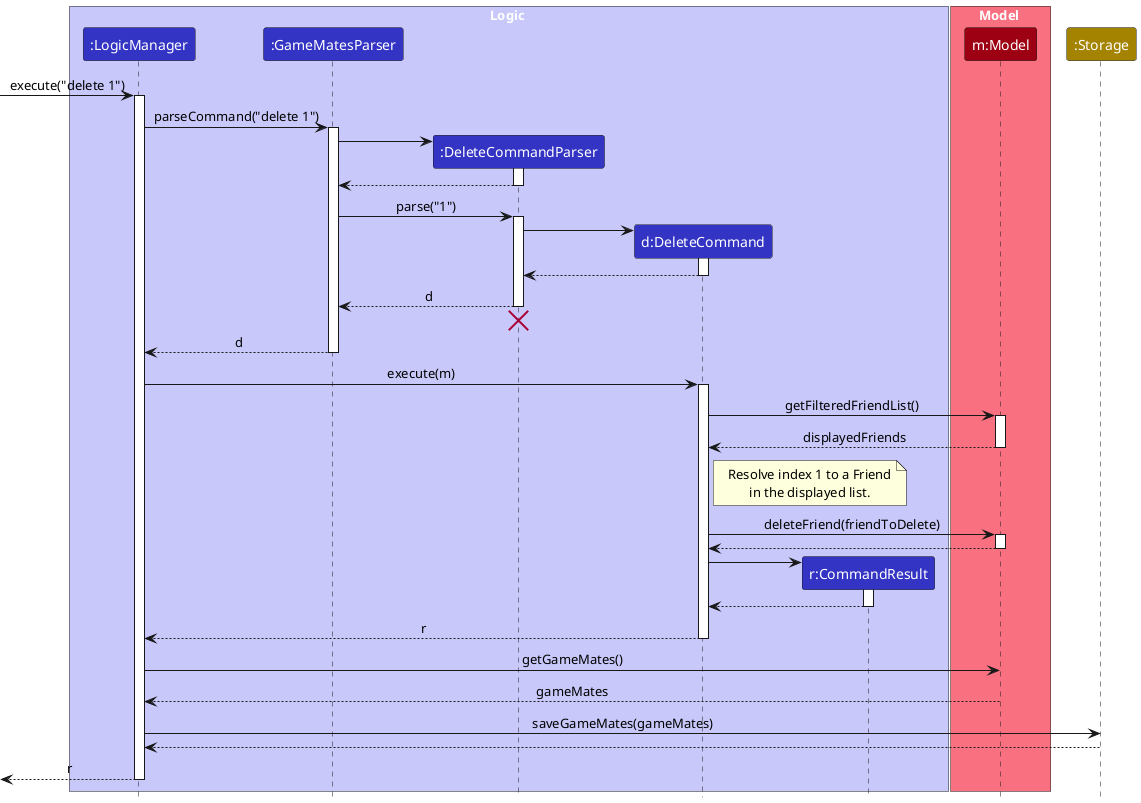
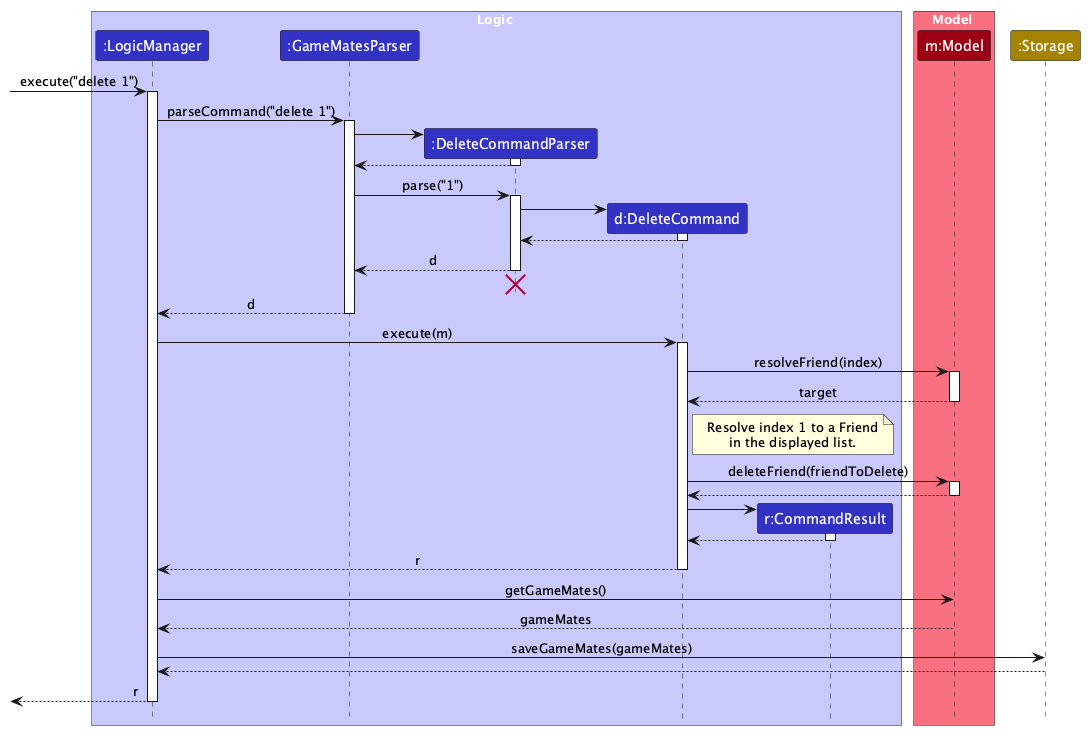
Improve error message where index is out of range

diff --git a/src/test/java/seedu/address/logic/commands/ArchiveCommandsTest.java b/src/test/java/seedu/address/logic/commands/ArchiveCommandsTest.java
@@ -161,8 +161,9 @@ public class ArchiveCommandsTest {
         for (String search : List.of("find Alice Bob", "find Nobody")) {
             execute(search);
             List<Friend> displayed = List.copyOf(model.getFilteredFriendList());
-            assertThrows(CommandException.class, Messages.MESSAGE_INVALID_FRIEND_DISPLAYED_INDEX, ()
-                    -> execute("archive 99"));
+            String expected = displayed.isEmpty() ? EditCommand.MESSAGE_EMPTY_LIST
+                    : String.format(EditCommand.MESSAGE_INDEX_NOT_FOUND, 99, displayed.size());
+            assertThrows(CommandException.class, expected, () -> execute("archive 99"));
             assertEquals(displayed, model.getFilteredFriendList());
             assertEquals(FriendListScope.SEARCH, model.getFriendListScope());
             assertEquals(List.of(alice, bob.withArchived(true)), model.getGameMates().getFriendList());
@@ -253,8 +254,9 @@ public class ArchiveCommandsTest {
     @Test
     public void archiveCommands_invalidTargets_leaveDataAndViewUnchanged() throws Exception {
         model.addFriend(alice);
-        assertThrows(CommandException.class, UnarchiveCommand.MESSAGE_WRONG_STATUS, () -> execute("unarchive 1"));
-        assertThrows(CommandException.class, Messages.MESSAGE_INVALID_FRIEND_DISPLAYED_INDEX, ()
+        assertThrows(CommandException.class, UnarchiveCommand.MESSAGE_WRONG_VIEW, () -> execute("unarchive 1"));
+        assertThrows(CommandException.class, UnarchiveCommand.MESSAGE_WRONG_VIEW, () -> execute("unarchive 99"));
+        assertThrows(CommandException.class, String.format(EditCommand.MESSAGE_INDEX_NOT_FOUND, 2, 1), ()
                 -> execute("archive 2"));
         assertThrows(CommandException.class, ArchiveCommand.MESSAGE_MYSELF, ()
                 -> new ArchiveCommand(Index.myself()).execute(model));
@@ -264,11 +266,13 @@ public class ArchiveCommandsTest {
         execute("archive 1");
         execute("archivelist");
         assertThrows(CommandException.class, ArchiveCommand.MESSAGE_WRONG_VIEW, () -> execute("archive 1"));
+        assertThrows(CommandException.class, String.format(EditCommand.MESSAGE_INDEX_NOT_FOUND, 2, 1), ()
+                -> execute("unarchive 2"));
         assertEquals(List.of(alice.withArchived(true)), model.getFilteredFriendList());
         execute("archivelist g/Unknown");
         assertTrue(model.getFilteredFriendList().isEmpty());
         assertEquals(FriendListScope.ARCHIVED, model.getFriendListScope());
-        assertThrows(CommandException.class, Messages.MESSAGE_INVALID_FRIEND_DISPLAYED_INDEX, ()
+        assertThrows(CommandException.class, EditCommand.MESSAGE_EMPTY_LIST, ()
                 -> execute("unarchive 1"));
     }
 

diff --git a/src/test/java/seedu/address/logic/commands/DeleteCommandTest.java b/src/test/java/seedu/address/logic/commands/DeleteCommandTest.java
@@ -14,7 +14,6 @@ import static seedu.address.testutil.TypicalIndexes.INDEX_SECOND_FRIEND;
 import org.junit.jupiter.api.Test;
 
 import seedu.address.commons.core.index.Index;
-import seedu.address.logic.Messages;
 import seedu.address.model.GameMates;
 import seedu.address.model.Model;
 import seedu.address.model.ModelManager;
@@ -48,7 +47,8 @@ public class DeleteCommandTest {
         Index outOfBoundIndex = Index.fromOneBased(model.getFilteredFriendList().size() + 1);
         DeleteCommand deleteCommand = new DeleteCommand(outOfBoundIndex);
 
-        assertCommandFailure(deleteCommand, model, Messages.MESSAGE_INVALID_FRIEND_DISPLAYED_INDEX);
+        assertCommandFailure(deleteCommand, model, String.format(EditCommand.MESSAGE_INDEX_NOT_FOUND,
+                outOfBoundIndex.getOneBased(), model.getFilteredFriendList().size()));
     }
 
     @Test
@@ -89,7 +89,8 @@ public class DeleteCommandTest {
 
         DeleteCommand deleteCommand = new DeleteCommand(outOfBoundIndex);
 
-        assertCommandFailure(deleteCommand, model, Messages.MESSAGE_INVALID_FRIEND_DISPLAYED_INDEX);
+        assertCommandFailure(deleteCommand, model, String.format(EditCommand.MESSAGE_INDEX_NOT_FOUND,
+                outOfBoundIndex.getOneBased(), 1));
     }
 
     @Test
@@ -101,14 +102,14 @@ public class DeleteCommandTest {
     public void execute_emptyList_throwsCommandException() {
         Model emptyModel = new ModelManager(new GameMates(), new UserPrefs());
         assertCommandFailure(new DeleteCommand(INDEX_FIRST_FRIEND), emptyModel,
-                Messages.MESSAGE_INVALID_FRIEND_DISPLAYED_INDEX);
+                EditCommand.MESSAGE_EMPTY_LIST);
     }
 
     @Test
     public void execute_emptyFilteredList_doesNotDeleteHiddenFriends() {
         showNoFriend(model);
         assertCommandFailure(new DeleteCommand(INDEX_FIRST_FRIEND), model,
-                Messages.MESSAGE_INVALID_FRIEND_DISPLAYED_INDEX);
+                EditCommand.MESSAGE_EMPTY_LIST);
     }
 
     @Test

diff --git a/src/main/java/seedu/address/logic/commands/UnarchiveCommand.java b/src/main/java/seedu/address/logic/commands/UnarchiveCommand.java
@@ -4,8 +4,8 @@ import static java.util.Objects.requireNonNull;
 
 import seedu.address.commons.core.index.Index;
 import seedu.address.commons.util.ToStringBuilder;
-import seedu.address.logic.Messages;
 import seedu.address.logic.commands.exceptions.CommandException;
+import seedu.address.model.FriendListScope;
 import seedu.address.model.Model;
 import seedu.address.model.friend.Friend;
 
@@ -16,6 +16,8 @@ public class UnarchiveCommand extends Command {
             + ": Selects an archived friend by its displayed index.\n"
             + "Parameters: FRIEND_INDEX (must be a positive integer)\n"
             + "Example: " + COMMAND_WORD + " 1";
+    public static final String MESSAGE_WRONG_VIEW =
+            "Run archivelist to switch to the archived list before restoring a friend.";
     public static final String MESSAGE_SUCCESS = "Restored %1$s.";
     public static final String MESSAGE_WRONG_STATUS = "This friend is not archived. "
             + "Use archivelist to select an archived friend.";
@@ -33,10 +35,10 @@ public class UnarchiveCommand extends Command {
         if (targetIndex.isMyself()) {
             throw new CommandException(MESSAGE_MYSELF);
         }
-        if (targetIndex.getZeroBased() >= model.getFilteredFriendList().size()) {
-            throw new CommandException(Messages.MESSAGE_INVALID_FRIEND_DISPLAYED_INDEX);
+        if (model.getFriendListScope() == FriendListScope.ACTIVE) {
+            throw new CommandException(MESSAGE_WRONG_VIEW);
         }
-        Friend friend = model.getFilteredFriendList().get(targetIndex.getZeroBased());
+        Friend friend = FriendTargetResolver.resolve(model, targetIndex).friend();
         if (friend.isArchived() == false) {
             throw new CommandException(MESSAGE_WRONG_STATUS);
         }

diff --git a/src/test/java/seedu/address/logic/commands/GameAddCommandTest.java b/src/test/java/seedu/address/logic/commands/GameAddCommandTest.java
@@ -11,7 +11,6 @@ import static seedu.address.testutil.TypicalFriends.getTypicalGameMates;
 import org.junit.jupiter.api.Test;
 
 import seedu.address.commons.core.index.Index;
-import seedu.address.logic.Messages;
 import seedu.address.model.GameMates;
 import seedu.address.model.Model;
 import seedu.address.model.ModelManager;
@@ -81,12 +80,12 @@ public class GameAddCommandTest {
     public void execute_invalidDisplayedIndex_failure() {
         int size = model.getFilteredFriendList().size();
         assertCommandFailure(new GameAddCommand(Index.fromOneBased(size + 1), game), model,
-                Messages.MESSAGE_INVALID_FRIEND_DISPLAYED_INDEX);
+                String.format(EditCommand.MESSAGE_INDEX_NOT_FOUND, size + 1, size));
         showFriendAtIndex(model, first);
         assertCommandFailure(new GameAddCommand(Index.fromOneBased(2), game), model,
-                Messages.MESSAGE_INVALID_FRIEND_DISPLAYED_INDEX);
+                String.format(EditCommand.MESSAGE_INDEX_NOT_FOUND, 2, 1));
         model.updateFilteredFriendList(friend -> false);
-        assertCommandFailure(new GameAddCommand(first, game), model, Messages.MESSAGE_INVALID_FRIEND_DISPLAYED_INDEX);
+        assertCommandFailure(new GameAddCommand(first, game), model, EditCommand.MESSAGE_EMPTY_LIST);
     }
 
     @Test

diff --git a/src/main/java/seedu/address/logic/commands/EditCommand.java b/src/main/java/seedu/address/logic/commands/EditCommand.java
@@ -54,7 +54,7 @@ public class EditCommand extends Command {
             + "to edit specific details.";
 
     public static final String MESSAGE_EMPTY_LIST =
-            "No friends are currently displayed. Use list to show all friends.";
+            "No friends are currently displayed. Use list or archivelist to show friends.";
     public static final String MESSAGE_INDEX_NOT_FOUND =
             "No friend exists at index %1$d. Choose an index from 1 to %2$d.";
 
@@ -76,11 +76,7 @@ public class EditCommand extends Command {
     @Override
     public CommandResult execute(Model model) throws CommandException {
         requireNonNull(model);
-        FriendTarget target = FriendTargetResolver.resolve(model, index, () -> {
-            int displayedCount = model.getFilteredFriendList().size();
-            return displayedCount == 0 ? MESSAGE_EMPTY_LIST
-                    : String.format(MESSAGE_INDEX_NOT_FOUND, index.getOneBased(), displayedCount);
-        });
+        FriendTarget target = FriendTargetResolver.resolve(model, index);
         Friend friendToEdit = target.friend();
         Friend editedFriend = createEditedFriend(friendToEdit, editFriendDescriptor);
         FriendValidator.checkCanEdit(model, target, editedFriend);

diff --git a/src/main/java/seedu/address/logic/commands/FriendTargetResolver.java b/src/main/java/seedu/address/logic/commands/FriendTargetResolver.java
@@ -5,7 +5,6 @@ import static seedu.address.commons.util.CollectionUtil.requireAllNonNull;
 import java.util.function.Supplier;
 
 import seedu.address.commons.core.index.Index;
-import seedu.address.logic.Messages;
 import seedu.address.logic.commands.exceptions.CommandException;
 import seedu.address.model.Model;
 import seedu.address.model.friend.FriendTarget;
@@ -16,9 +15,13 @@ final class FriendTargetResolver {
     private FriendTargetResolver() {
     }
 
-    /** Resolves a target using the standard invalid-index message. */
+    /** Resolves a target, reporting the valid index range if the index is outside the displayed list. */
     static FriendTarget resolve(Model model, Index index) throws CommandException {
-        return resolve(model, index, () -> Messages.MESSAGE_INVALID_FRIEND_DISPLAYED_INDEX);
+        return resolve(model, index, () -> {
+            int displayedCount = model.getFilteredFriendList().size();
+            return displayedCount == 0 ? EditCommand.MESSAGE_EMPTY_LIST
+                    : String.format(EditCommand.MESSAGE_INDEX_NOT_FOUND, index.getOneBased(), displayedCount);
+        });
     }
 
     /** Resolves a target, generating command-specific feedback only if the index is invalid. */

diff --git a/src/main/java/seedu/address/logic/commands/DeleteCommand.java b/src/main/java/seedu/address/logic/commands/DeleteCommand.java
@@ -2,11 +2,8 @@ package seedu.address.logic.commands;
 
 import static java.util.Objects.requireNonNull;
 
-import java.util.List;
-
 import seedu.address.commons.core.index.Index;
 import seedu.address.commons.util.ToStringBuilder;
-import seedu.address.logic.Messages;
 import seedu.address.logic.commands.exceptions.CommandException;
 import seedu.address.model.Model;
 import seedu.address.model.friend.Friend;
@@ -38,13 +35,7 @@ public class DeleteCommand extends Command {
     @Override
     public CommandResult execute(Model model) throws CommandException {
         requireNonNull(model);
-        List<Friend> lastShownList = model.getFilteredFriendList();
-
-        if (targetIndex.getZeroBased() >= lastShownList.size()) {
-            throw new CommandException(Messages.MESSAGE_INVALID_FRIEND_DISPLAYED_INDEX);
-        }
-
-        Friend friendToDelete = lastShownList.get(targetIndex.getZeroBased());
+        Friend friendToDelete = FriendTargetResolver.resolve(model, targetIndex).friend();
         model.deleteFriend(friendToDelete);
         return new CommandResult(String.format(MESSAGE_DELETE_FRIEND_SUCCESS, friendToDelete.getName()));
     }

diff --git a/src/main/java/seedu/address/logic/commands/ArchiveCommand.java b/src/main/java/seedu/address/logic/commands/ArchiveCommand.java
@@ -4,7 +4,6 @@ import static java.util.Objects.requireNonNull;
 
 import seedu.address.commons.core.index.Index;
 import seedu.address.commons.util.ToStringBuilder;
-import seedu.address.logic.Messages;
 import seedu.address.logic.commands.exceptions.CommandException;
 import seedu.address.model.FriendListScope;
 import seedu.address.model.Model;
@@ -37,10 +36,7 @@ public class ArchiveCommand extends Command {
         if (model.getFriendListScope() == FriendListScope.ARCHIVED) {
             throw new CommandException(MESSAGE_WRONG_VIEW);
         }
-        if (targetIndex.getZeroBased() >= model.getFilteredFriendList().size()) {
-            throw new CommandException(Messages.MESSAGE_INVALID_FRIEND_DISPLAYED_INDEX);
-        }
-        Friend friend = model.getFilteredFriendList().get(targetIndex.getZeroBased());
+        Friend friend = FriendTargetResolver.resolve(model, targetIndex).friend();
         if (friend.isArchived()) {
             throw new CommandException(MESSAGE_WRONG_STATUS);
         }

diff --git a/src/test/java/seedu/address/logic/commands/GameDeleteCommandTest.java b/src/test/java/seedu/address/logic/commands/GameDeleteCommandTest.java
@@ -7,7 +7,6 @@ import static seedu.address.testutil.TypicalFriends.getTypicalGameMates;
 import org.junit.jupiter.api.Test;
 
 import seedu.address.commons.core.index.Index;
-import seedu.address.logic.Messages;
 import seedu.address.model.GameMates;
 import seedu.address.model.Model;
 import seedu.address.model.ModelManager;
@@ -55,7 +54,8 @@ public class GameDeleteCommandTest {
 
     @Test
     public void execute_invalidFriendIndex_failure() {
-        assertCommandFailure(new GameDeleteCommand(Index.fromOneBased(model.getFilteredFriendList().size() + 1),
-                new GameName("Minecraft")), model, Messages.MESSAGE_INVALID_FRIEND_DISPLAYED_INDEX);
+        int size = model.getFilteredFriendList().size();
+        assertCommandFailure(new GameDeleteCommand(Index.fromOneBased(size + 1),
+                new GameName("Minecraft")), model, String.format(EditCommand.MESSAGE_INDEX_NOT_FOUND, size + 1, size));
     }
 }

diff --git a/src/test/java/seedu/address/logic/commands/GameListCommandTest.java b/src/test/java/seedu/address/logic/commands/GameListCommandTest.java
@@ -153,10 +153,10 @@ public class GameListCommandTest {
     public void execute_emptyDisplayedList_failure() {
         Model emptyModel = new ModelManager();
         assertCommandFailure(new GameListCommand(INDEX_FIRST_FRIEND), emptyModel,
-                "No friends are currently displayed. Use list to show all friends.");
+                "No friends are currently displayed. Use list or archivelist to show friends.");
         new FindCommand(new NameContainsKeywordsPredicate(List.of("Unknown"))).execute(model);
         assertCommandFailure(new GameListCommand(INDEX_FIRST_FRIEND, new GameName("Valorant")), model,
-                "No friends are currently displayed. Use list to show all friends.");
+                "No friends are currently displayed. Use list or archivelist to show friends.");
     }
 
     @Test

diff --git a/src/test/java/seedu/address/logic/commands/GameEditCommandTest.java b/src/test/java/seedu/address/logic/commands/GameEditCommandTest.java
@@ -14,7 +14,6 @@ import java.util.stream.Collectors;
 import org.junit.jupiter.api.Test;
 
 import seedu.address.commons.core.index.Index;
-import seedu.address.logic.Messages;
 import seedu.address.logic.commands.GameEditCommand.EditGameDescriptor;
 import seedu.address.logic.commands.exceptions.CommandException;
 import seedu.address.logic.parser.GameMatesParser;
@@ -174,7 +173,7 @@ public class GameEditCommandTest {
             assertSame(friend, model.getFilteredFriendList().getFirst());
         }
         model.updateFilteredFriendList(f -> false);
-        assertThrows(CommandException.class, Messages.MESSAGE_INVALID_FRIEND_DISPLAYED_INDEX, () ->
+        assertThrows(CommandException.class, EditCommand.MESSAGE_EMPTY_LIST, () ->
                 execute("gameedit 1 g/Valorant u/player"));
     }
 

diff --git a/src/test/java/seedu/address/logic/LogicManagerTest.java b/src/test/java/seedu/address/logic/LogicManagerTest.java
@@ -21,6 +21,7 @@ import org.junit.jupiter.api.io.TempDir;
 import seedu.address.logic.commands.AddCommand;
 import seedu.address.logic.commands.CommandResult;
 import seedu.address.logic.commands.DeleteCommand;
+import seedu.address.logic.commands.EditCommand;
 import seedu.address.logic.commands.ListCommand;
 import seedu.address.logic.commands.exceptions.CommandException;
 import seedu.address.logic.parser.exceptions.ParseException;
@@ -66,7 +67,7 @@ public class LogicManagerTest {
     @Test
     public void execute_commandExecutionError_throwsCommandException() {
         String deleteCommand = "delete 9";
-        assertCommandException(deleteCommand, Messages.MESSAGE_INVALID_FRIEND_DISPLAYED_INDEX);
+        assertCommandException(deleteCommand, EditCommand.MESSAGE_EMPTY_LIST);
     }
 
     @Test
